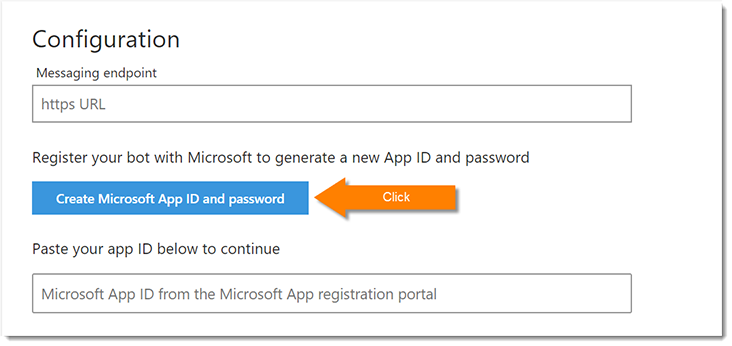
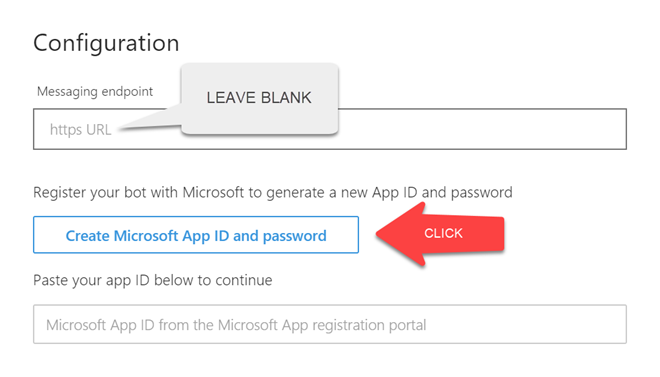
update images for new UI

Changed region(s): [[0.0303, 0.4335, 0.9394, 0.9249], [0.0, 0.0289, 1.0, 1.0], [0.0303, 0.0867, 0.2727, 0.1734]]

diff --git a/docs/Bot-Registration.md b/docs/Bot-Registration.md
@@ -2,25 +2,21 @@
 
 You must manually register a new bot. A bot registration is the authenticated link between you and your callers.
 
-1. Sign in to the [bot registration portal][5]
+1. Sign in to the [bot registration portal][1]
 1. Set your bot's `profile`  
-![screenshot][1]
-1. Set your bot's `app configuration`. Clicking the blue button will open a new page (you may have to re-authenticate with the App Registration Portal).  
-![screenshot][2]
-1. Register an `app` for your bot. Be sure to copy the password after it is generated. You will not be able to retrieve it again.  
-![screenshot][3]
+![screenshot][IMG1]
+1. Set your bot's `app configuration`. Clicking the blue button will open a new page (you may have to authenticate with the App Registration Portal).  
+![screenshot][IMG2]
+1. Register an `app` for your bot. Be sure to copy the password after it is generated. *You will not be able to retrieve it again*. **If you do not see your App name and a pre-generated App ID, close the window and repeat the previous step.**  
+![screenshot][IMG3]
+1. Analytics fields may be left blank.  
+![screenshot][IMG4]
 1. `Complete` your bot's registration  
-![screenshot][4]
+![screenshot][IMG5]
 
-> Any fields left blank in the screenshots above may be left blank.
-
-*Before continuing, make sure you have copied your `App Id` and `App Password`. We will need these later.*
-
-
-
-
-[1]: ./img/create-bot-01.png
-[2]: ./img/create-bot-02.png
-[3]: ./img/create-bot-03.png
-[4]: ./img/create-bot-04.png
-[5]: https://dev.botframework.com/bots/new
+[IMG1]: ./img/create-bot-01.png
+[IMG2]: ./img/create-bot-02.png
+[IMG3]: ./img/create-bot-03.png
+[IMG4]: ./img/create-bot-04.png
+[IMG5]: ./img/create-bot-05.png
+[1]: https://dev.botframework.com/bots/new
